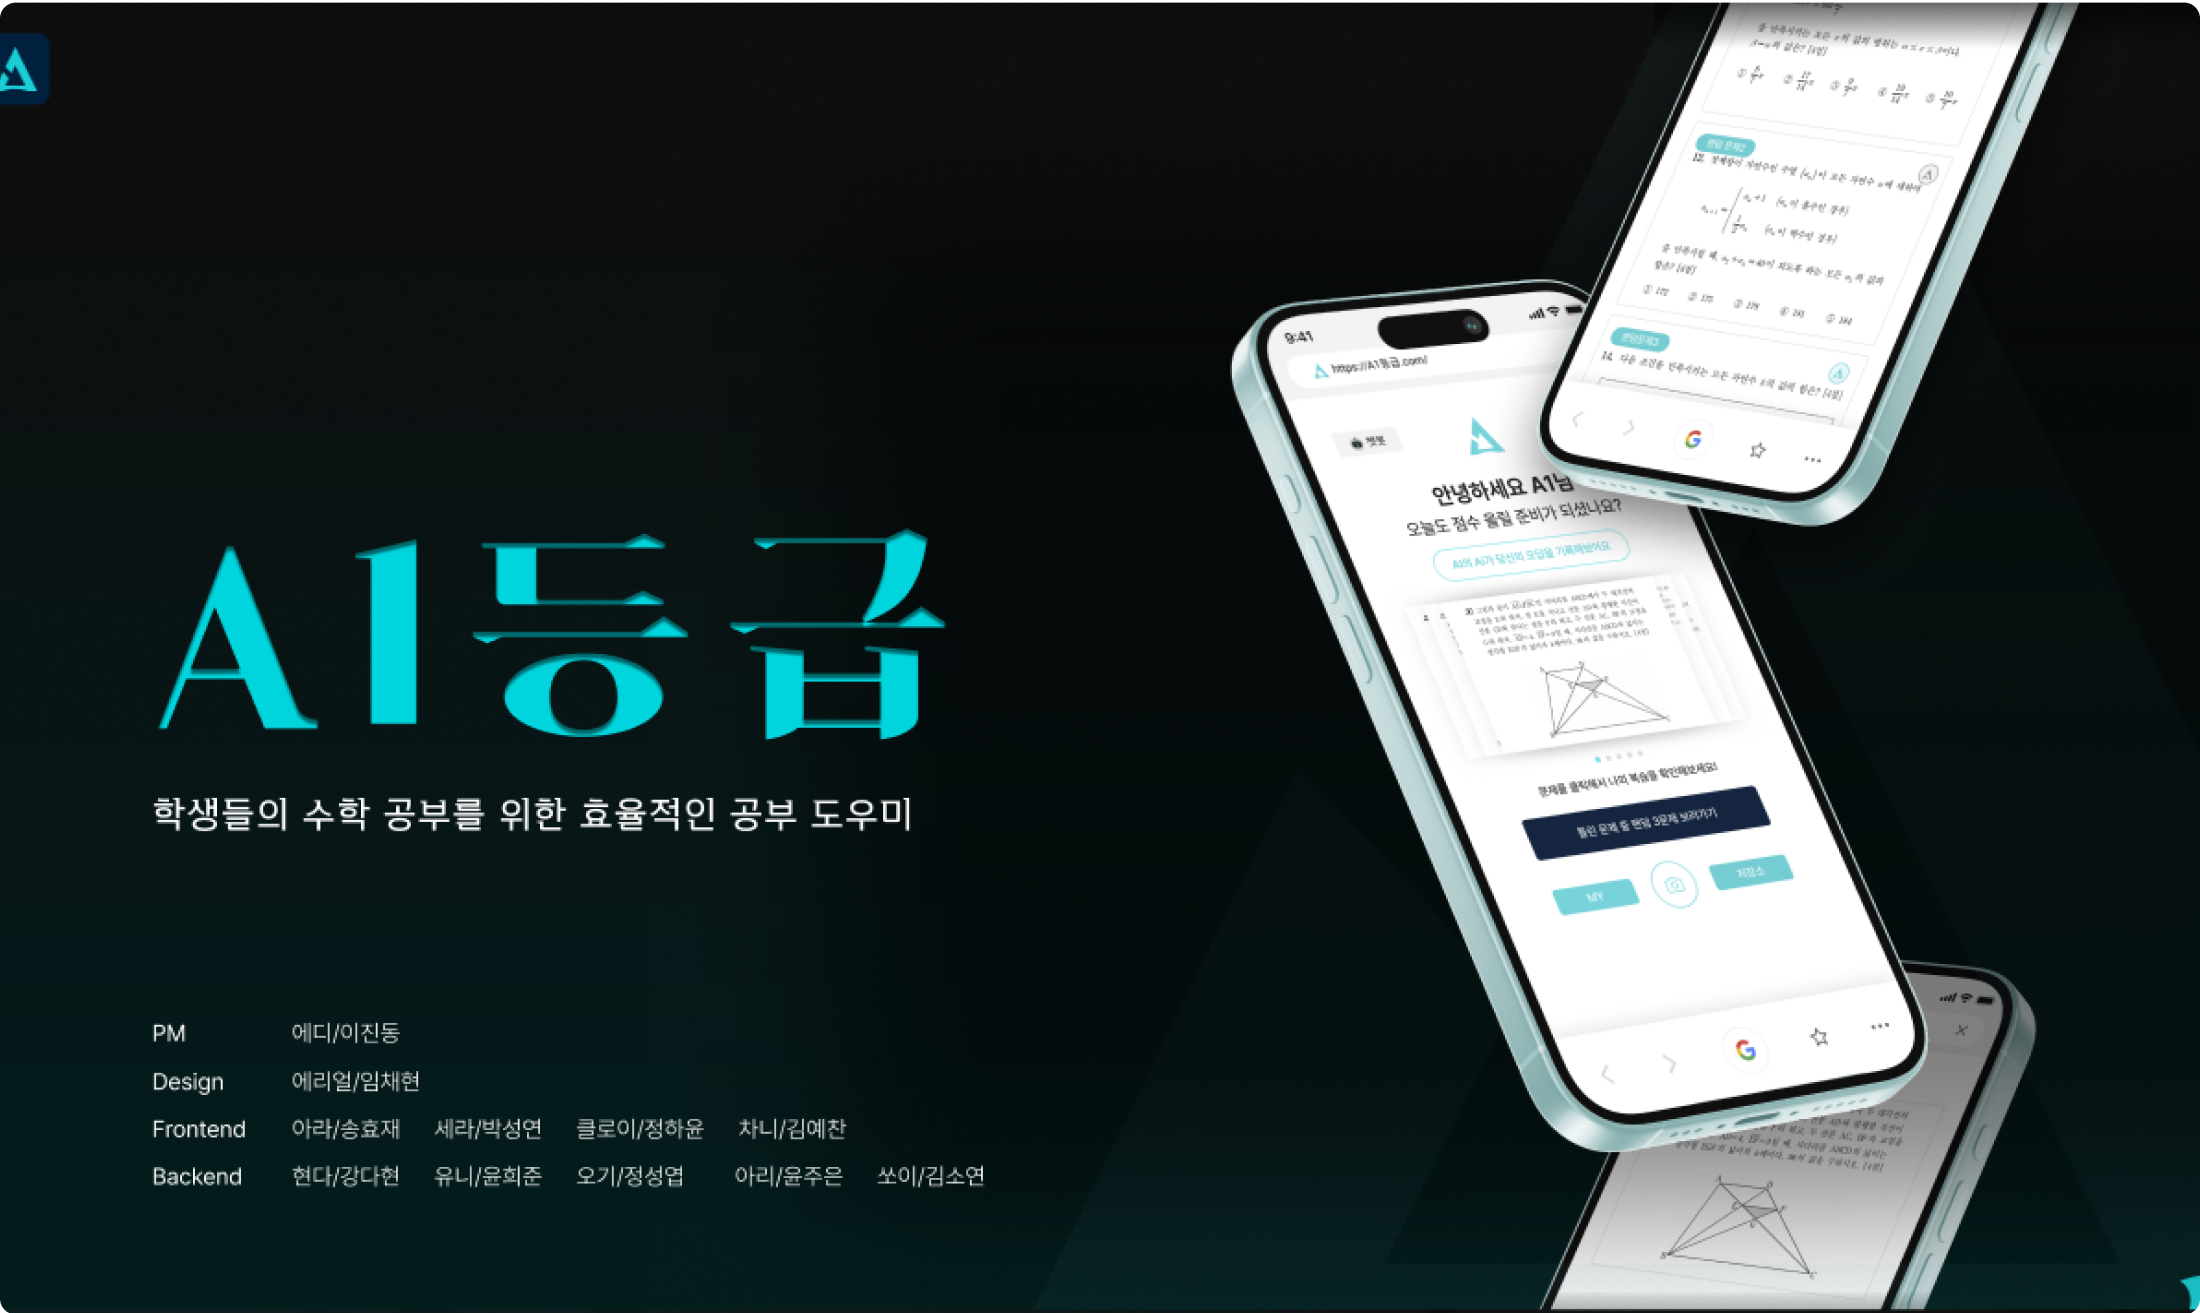
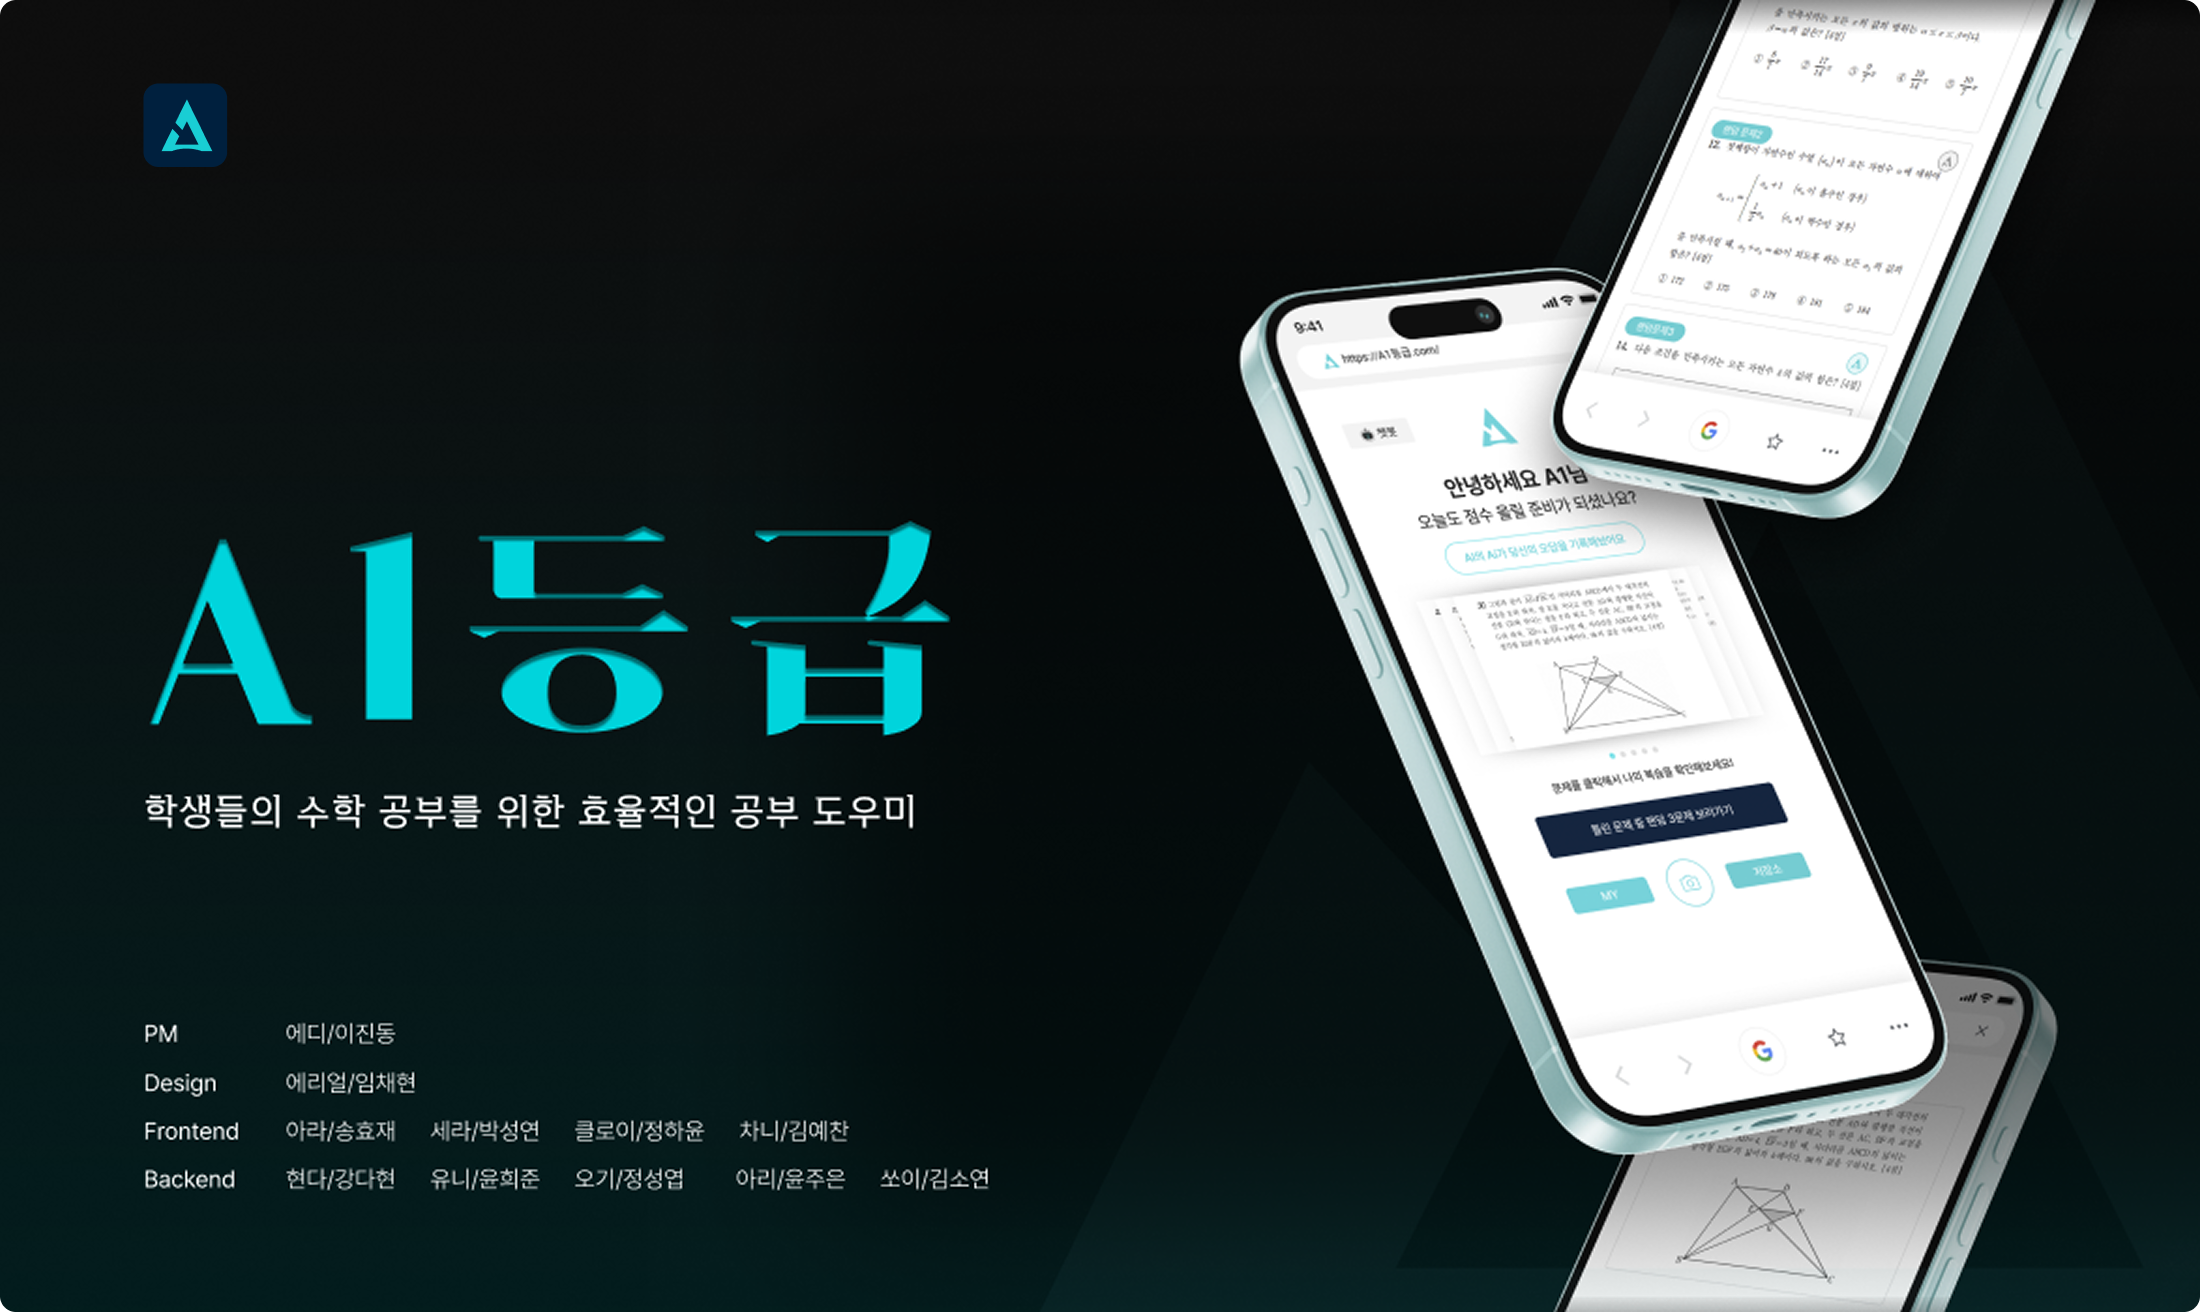
✨ Feat: 프로젝트 이미지 변경

diff --git a/src/utils/Project/projectData.js b/src/utils/Project/projectData.js
@@ -428,10 +428,10 @@ const ProjectData = [
     { 
         "id": 8, 
         "type": "7기",
-        "projectWeb": images['partNerdWeb'],
-        "projectMobile": images['partNerdMobile'],
-        "projectDetailWeb": images['routeporterDetailWeb'],
-        "projectDetailMobile": images['routeporterDetailMobile'],
+        "projectWeb": images['partnerdWeb'],
+        "projectMobile": images['partnerdMobile'],
+        "projectDetailWeb": images['partnerdDetailWeb'],
+        "projectDetailMobile": images['partnerdDetailMobile'],
         "project": "https://github.com/UMC-partNerd",
         "title": "partNerd",
         "detailExplain": "우리의 동아리를 홍보하고, 콜라보레이션 기능을 통해 타 IT 동아리와의 협업 및 프로젝트 인원을 모집할 수 있는 플랫폼입니다.",
@@ -485,12 +485,12 @@ const ProjectData = [
     { 
         "id": 9, 
         "type": "7기",
-        "projectWeb": images['whereDrugWeb'],
-        "projectMobile": images['whereDrugMobile'],
-        "projectDetailWeb": images['routeporterDetailWeb'],
-        "projectDetailMobile": images['routeporterDetailMobile'],
+        "projectWeb": images['wheredrugWeb'],
+        "projectMobile": images['wheredrugMobile'],
+        "projectDetailWeb": images['wheredrugDetailWeb'],
+        "projectDetailMobile": images['wheredrugDetailMobile'],
         "project": "https://github.com/PharmQuest",
-        "title": "어디약",
+        "title": "어디약?",
         "detailExplain": "해외에서 어떤 상비약을 사야할 지 막막한 사람들을 위해, 상비약 정보와 약국 위치를 한 곳에서 제공하는 서비스입니다. 나라별 상비약 정보와 주변 근처 약국 정보를 제공하며, 각 나라별 인기 영양제를 추천해 줍니다.",
         "people": [
             {
@@ -537,8 +537,8 @@ const ProjectData = [
         "type": "7기",
         "projectWeb": images['daengnyangWeb'],
         "projectMobile": images['daengnyangMobile'],
-        "projectDetailWeb": images['routeporterDetailWeb'],
-        "projectDetailMobile": images['routeporterDetailMobile'],
+        "projectDetailWeb": images['daengnyangDetailWeb'],
+        "projectDetailMobile": images['daengnyangDetailMobile'],
         "title": "댕냥스퀘어",
         "detailExplain": "한 눈에 접하는 우리동네 반려동물 지도 앱 서비스입니다. 날씨, 디데이 등 사용자에게 필요한 정보와 반려동물을 위한 정보를 제공합니다. 또한 견주들을 위해 산책 코스를 추천해주고, 커뮤니티를 통해 이웃들과 소통할 수 있습니다.",
         "people": [
@@ -546,7 +546,7 @@ const ProjectData = [
                 "id": 1,
                 "part": "서버",
                 "name": [
-                    "최승재"
+                    "임차민"
                 ]
             },
         ],
@@ -568,10 +568,10 @@ const ProjectData = [
     { 
         "id": 11, 
         "type": "7기",
-        "projectWeb": images['travelStarWeb'],
-        "projectMobile": images['travelStarMobile'],
-        "projectDetailWeb": images['routeporterDetailWeb'],
-        "projectDetailMobile": images['routeporterDetailMobile'],
+        "projectWeb": images['travelstarWeb'],
+        "projectMobile": images['travelstarMobile'],
+        "projectDetailWeb": images['travelstarDetailWeb'],
+        "projectDetailMobile": images['travelstarDetailMobile'],
         "project": "https://github.com/UMC-TravelStar",
         "title": "여행별",
         "detailExplain": "여행 일지를 간편하게 작성하며 추억과 감정을 기억하고 공유하는 서비스입니다. 일지에 작성한 위치를 기반으로 나만의 행성에 별이 찍히며, 본인 만의 별자리를 생성할 수 있습니다.",
@@ -627,10 +627,10 @@ const ProjectData = [
     { 
         "id": 12, 
         "type": "7기",
-        "projectWeb": images['TttWeb'],
-        "projectMobile": images['TttMobile'],
-        "projectDetailWeb": images['routeporterDetailWeb'],
-        "projectDetailMobile": images['routeporterDetailMobile'],
+        "projectWeb": images['tttWeb'],
+        "projectMobile": images['tttMobile'],
+        "projectDetailWeb": images['tttDetailWeb'],
+        "projectDetailMobile": images['tttDetailMobile'],
         "title": "Ttt",
         "detailExplain": "독서를 하고 싶지만 꾸준히 하기 어려운 MZ 세대들이 가벼운 마음으로 독서를 시작할 수 있도록 책&장소, 큐레이션, 북클럽 등을 제공하는 앱 서비스입니다.",
         "people": [
@@ -671,8 +671,8 @@ const ProjectData = [
         "type": "7기",
         "projectWeb": images['weggWeb'],
         "projectMobile": images['weggMobile'],
-        "projectDetailWeb": images['routeporterDetailWeb'],
-        "projectDetailMobile": images['routeporterDetailMobile'],
+        "projectDetailWeb": images['weggDetailWeb'],
+        "projectDetailMobile": images['weggDetailMobile'],
         "project": "https://github.com/UMCWegg",
         "title": "위그",
         "detailExplain": "자기 주도적 학습이 어려운 MZ 세대를 위한 공부 관리 서비스입니다. 기존의 학문적이고 형식적인 공부 앱에서 벗어나 자유롭고 유쾌한 분위기에서 공부 일정 및 습관을 관리 할 수 있습니다.",
@@ -736,12 +736,12 @@ const ProjectData = [
     { 
         "id": 14, 
         "type": "7기",
-        "projectWeb": images['digInWeb'],
-        "projectMobile": images['digInMobile'],
-        "projectDetailWeb": images['routeporterDetailWeb'],
-        "projectDetailMobile": images['routeporterDetailMobile'],
+        "projectWeb": images['diginWeb'],
+        "projectMobile": images['diginMobile'],
+        "projectDetailWeb": images['diginDetailWeb'],
+        "projectDetailMobile": images['diginDetailMobile'],
         "project": "https://github.com/UMC-7th",
-        "title": "이거먹자",
+        "title": "이거 먹자",
         "detailExplain": "하루하루 나만의 건강한 식단을 추천해주는 서비스로, AI 영양사가 개인 맞춤 식단을 제공합니다. 또한 실시간 시세 조회를 통해 식재료의 정보를 제공하고, 건강한 식단을 편리하게 배송받을 수 있는 맞춤 식단 구독 기능이 있습니다.",
         "people": [
             {
@@ -802,10 +802,10 @@ const ProjectData = [
     { 
         "id": 15, 
         "type": "7기",
-        "projectWeb": images['growItWeb'],
-        "projectMobile": images['growItMobile'],
-        "projectDetailWeb": images['routeporterDetailWeb'],
-        "projectDetailMobile": images['routeporterDetailMobile'],
+        "projectWeb": images['growitWeb'],
+        "projectMobile": images['growitMobile'],
+        "projectDetailWeb": images['growitDetailWeb'],
+        "projectDetailMobile": images['growitDetailMobile'],
         "project": "https://github.com/7-umc-GrowIT",
         "title": "그로우잇",
         "detailExplain": "음성 기반 AI로 대화하며, 일기와 마음 챙김 챌린지를 통해 정신 건강을 관리하는 앱 서비스입니다.",
@@ -877,8 +877,8 @@ const ProjectData = [
         "type": "7기",
         "projectWeb": images['ggsWeb'],
         "projectMobile": images['ggsMobile'],
-        "projectDetailWeb": images['routeporterDetailWeb'],
-        "projectDetailMobile": images['routeporterDetailMobile'],
+        "projectDetailWeb": images['ggsDetailWeb'],
+        "projectDetailMobile": images['ggsDetailMobile'],
         "title": "공각심",
         "detailExplain": "20~30대 대학생 및 구직자를 대상으로 맞춤 자격/시험 일정 관리와 학습 동기를 부여하는 앱 서비스입니다. 공각심은 공부와 경각심을 결합한 합성어로, 학습 경각심을 일깨웁니다.",
         "people": [
@@ -927,11 +927,11 @@ const ProjectData = [
         "type": "7기",
         "projectWeb": images['a1Web'],
         "projectMobile": images['a1Mobile'],
-        "projectDetailWeb": images['routeporterDetailWeb'],
-        "projectDetailMobile": images['routeporterDetailMobile'],
+        "projectDetailWeb": images['a1DetailWeb'],
+        "projectDetailMobile": images['a1DetailMobile'],
         "project": "https://github.com/UMC-7th-A1Grade",
         "title": "A1등급",
-        "detailExplain": "a1등급 설명 넣을 예정",
+        "detailExplain": "막막했던 수학 오답을 조금 더 친숙하게 만들고 효율적으로 제공해주며, 끊임 없이 학생들에게 더 나은 공부환경을 만들어 줍니다. 이처럼 학생들의 수학 공부를 위한 효율적인 공부 도우미 역할을 하는 서비스입니다.",
         "people": [
             {
                 "id": 1,
@@ -958,13 +958,20 @@ const ProjectData = [
         "feel": [
             {
                 "id": 1,
+                "nickname": "에리얼",
+                "name": "임채현",
+                "part": "DESIGN",
+                "explain": "평소 어려웠던 또는 접근하기 쉽지 않은 수학을 자유롭게 자신만의 노트로 문제를 풀며 필기까지 할 수 있도록 직관적인 UXUI 디자인을 구현하였습니다. 수학이라는 개념을 보다 친숙하게 다가갈 수 있도록 인터랙티브 모션을 활용해서 서비스 뿐만 아니라 수학에 흥미를 돋을 수 있도록 UX를 설계하였습니다. 또한 마치 자신만의 다이어리를 꾸미듯, 자율적으로 자신의 수학노트를 작성할 수 있도록 캐릭터와 함께 매력적인 UI디자인을 진행하였습니다.\n교내뿐만 아니라 타학교 분들과 협업하여, 설계한 화면을 다 구현할 수 있다는 점에서 추천드리고 싶습니다."
+            },
+            {
+                "id": 2,
                 "nickname": "아라",
                 "name": "송효재",
                 "part": "WEB",
                 "explain": "웹 프론트엔드 개발자로 참여하여 구글 로그인, 온보딩, 메인화면을 구현했습니다.\n사실 이렇게 프로젝트에 '개발자'로 참여한 게 처음이었기에 아쉬운 점도 많지만, 큰 성장을 한 거 같습니다. Git과 Github 사용 능력을 많이 키웠다는 게 가장 큰 성장인거 같아요. 또, 개발자의 상황을 더 이해할 수 있는 기획자가 됐다는 것도 큰 자산인거 같습니다. 앞으로는 이번 프로젝트 경험을 살려 더 멋진 기획자가 되는 게 계획입니다."
             },
             {
-                "id": 2,
+                "id": 3,
                 "nickname": "현다",
                 "name": "강다현",
                 "part": "SPRINGBOOT",
@@ -989,12 +996,12 @@ const ProjectData = [
     { 
         "id": 18, 
         "type": "7기",
-        "projectWeb": images['farmOnWeb'],
-        "projectMobile": images['farmOnMobile'],
-        "projectDetailWeb": images['routeporterDetailWeb'],
-        "projectDetailMobile": images['routeporterDetailMobile'],
+        "projectWeb": images['farmonWeb'],
+        "projectMobile": images['farmonMobile'],
+        "projectDetailWeb": images['farmonDetailWeb'],
+        "projectDetailMobile": images['farmonDetailMobile'],
         "project": "https://github.com/Farm-On",
-        "title": "FarmOn",
+        "title": "FarmON",
         "detailExplain": "농업을 변화시키는 새로운 연결고리인 디지털 솔루션입니다. 농업 데이터 기반으로 맞춤형 컨설팅을 제공하고, 전문가와 농업인 매칭 시스템을 통해 연결해주는 서비스를 제공합니다. 또한 디지털 커뮤니티로 실시간 농업 트렌드를 공유할 수 있습니다.",
         "people": [
             {
